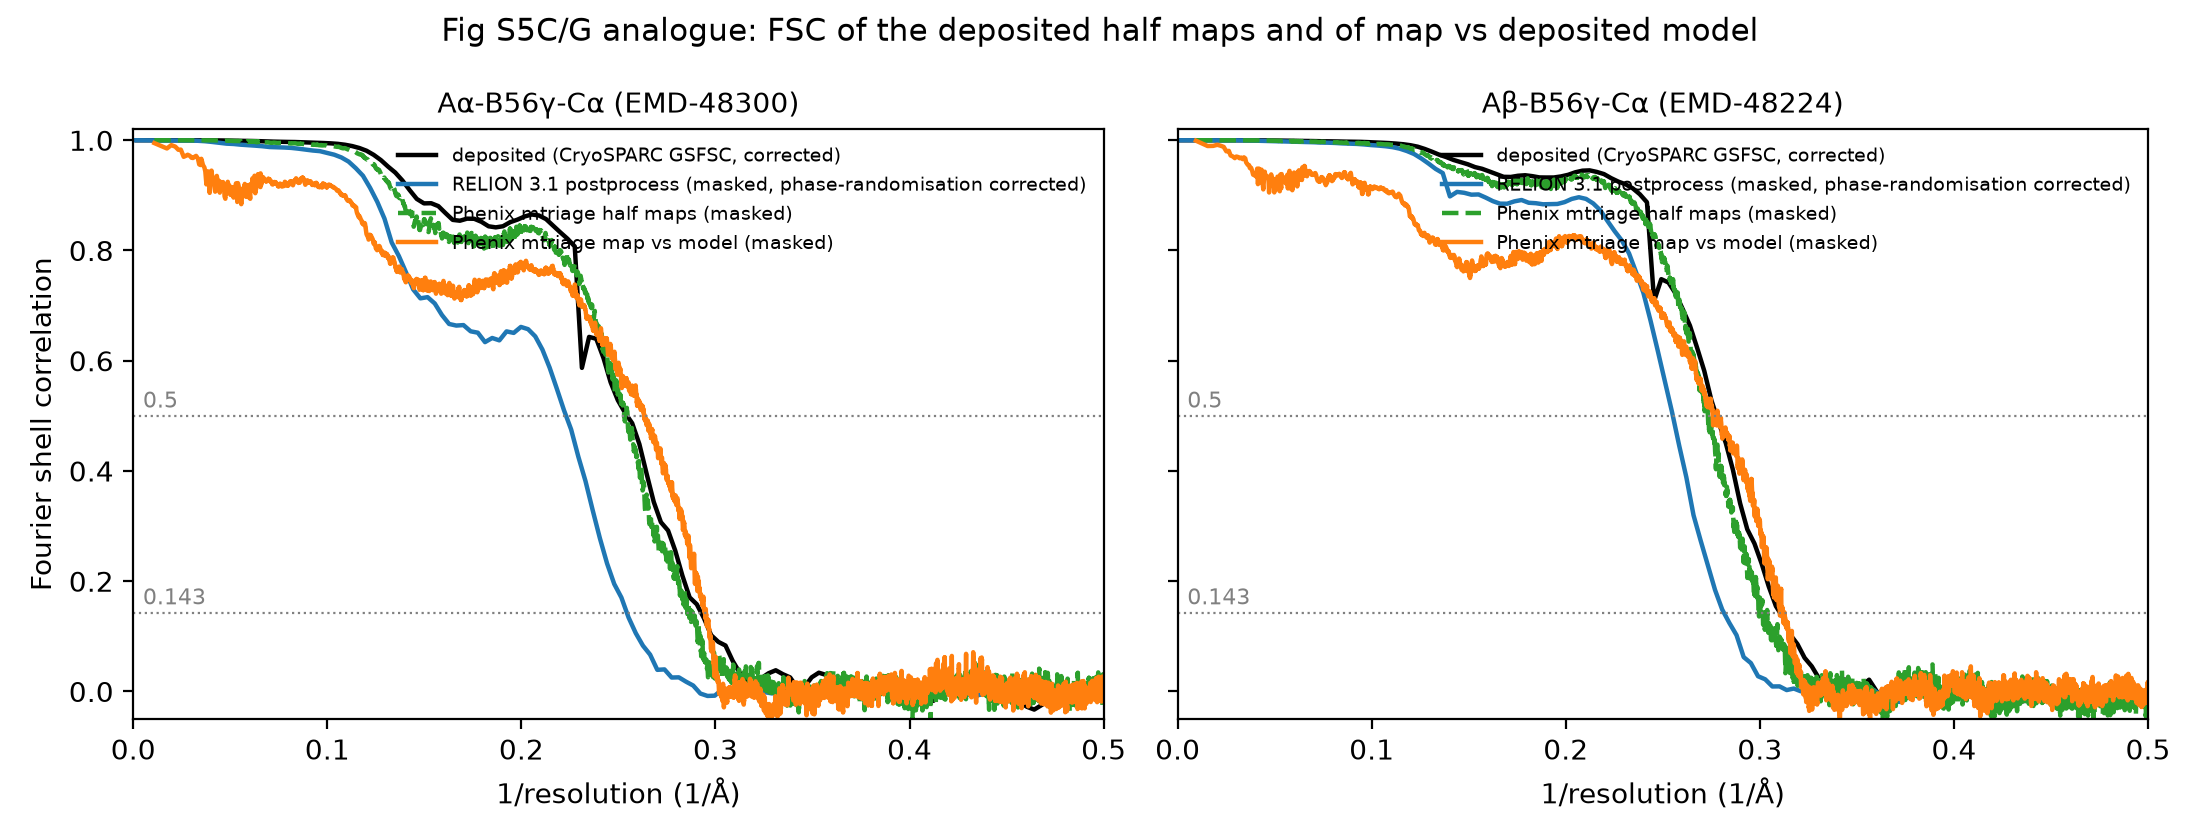
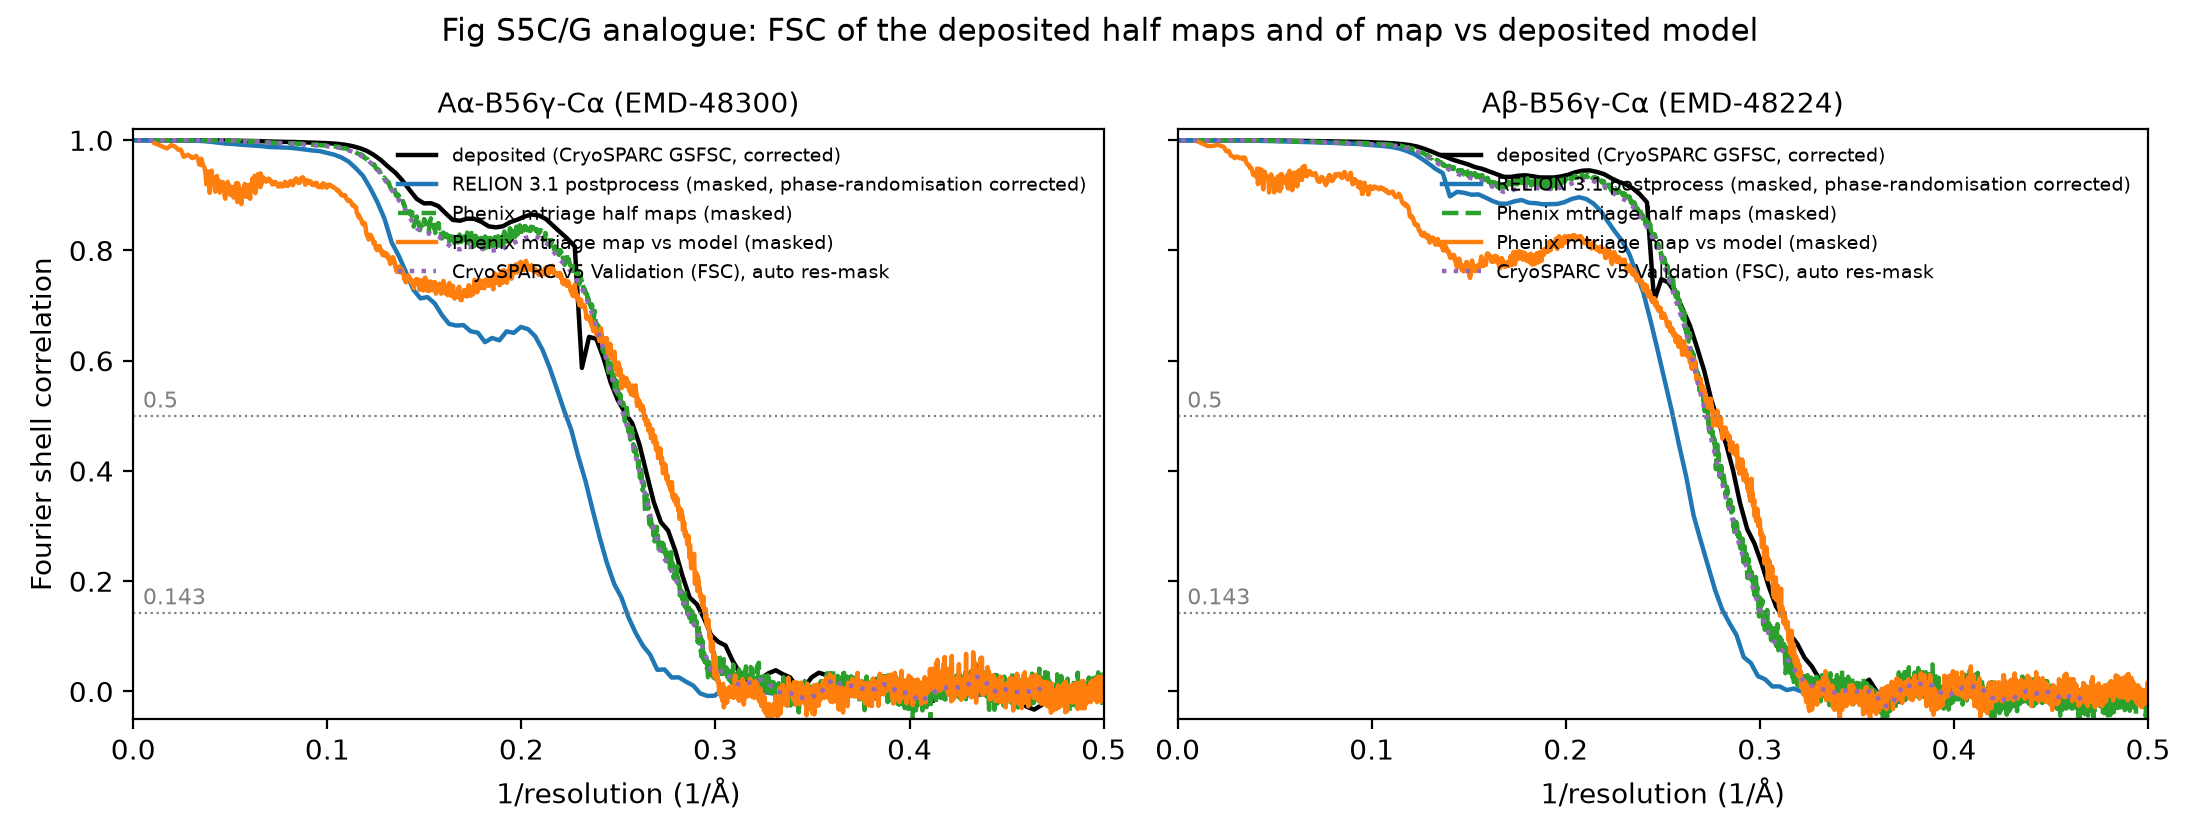
RELION local resolution, Fig 2B density ratios (0.60 Aα vs 0.30 Aβ), S5 local-resolution renders and montages
Claude-Session: https://claude.ai/code/session_01MR4HqkPpqUuLwia8CioFgG

Changed region(s): [[0.68, 0.3095, 0.8964, 0.3405], [0.1855, 0.3095, 0.4018, 0.3405]]

diff --git a/cryoEM/pp2a_day2025_reproduction/scripts/27_em_figures.py b/cryoEM/pp2a_day2025_reproduction/scripts/27_em_figures.py
@@ -122,16 +122,35 @@ def parse_molprobity(out_file):
             "molprobity": g(r"MolProbity score\s*=\s*([\d.]+)")}
 
 
-def locres_stats(mrc_path, mask_path=None):
+def model_mask(mrc_path, iso, dilate_A=3.0):
+    """Voxels within dilate_A of the deposited model's heavy atoms (the paper's range is quoted for the
+    molecule, not for the solvent-inclusive RELION mask)."""
+    import mdtraj as md
     import mrcfile
-    m = mrcfile.open(mrc_path).data.astype(np.float32)
-    vals = m[np.isfinite(m) & (m > 0)]
-    if mask_path and os.path.exists(mask_path):
-        mk = mrcfile.open(mask_path).data > 0.5
-        vals = m[mk & np.isfinite(m) & (m > 0)]
+    from scipy.ndimage import binary_dilation, generate_binary_structure
+    m = mrcfile.open(mrc_path, permissive=True)
+    vs = float(m.voxel_size.x)
+    origin = np.array([float(m.header.origin.x), float(m.header.origin.y), float(m.header.origin.z)])
+    pdb = {"Aa": "9MIP", "Ab": "9MF5"}[iso]
+    t = md.load(os.path.join(DATA, "em", "models", pdb + ".pdb"))
+    xyz = t.xyz[0, t.topology.select("not element H")] * 10.0
+    ijk = np.round((xyz - origin) / vs).astype(int)
+    shape = m.data.shape
+    ok = np.all((ijk >= 0) & (ijk < np.array(shape)[::-1]), axis=1)
+    ijk = ijk[ok]
+    mask = np.zeros(shape, dtype=bool)
+    mask[ijk[:, 2], ijk[:, 1], ijk[:, 0]] = True
+    return binary_dilation(mask, structure=generate_binary_structure(3, 1), iterations=int(round(dilate_A / vs)))
+
+
+def locres_stats(mrc_path, iso):
+    import mrcfile
+    m = mrcfile.open(mrc_path, permissive=True).data.astype(np.float32)
+    mk = model_mask(mrc_path, iso)
+    vals = m[mk & np.isfinite(m) & (m > 0)]
     if len(vals) == 0:
         return None
-    return {"min": float(np.percentile(vals, 0.5)), "max": float(np.percentile(vals, 99.5)), "median": float(np.median(vals)), "values": vals}
+    return {"min": float(np.percentile(vals, 1)), "max": float(np.percentile(vals, 99)), "median": float(np.median(vals)), "values": vals}
 
 
 def main():
@@ -227,19 +246,19 @@ def main():
         mask = os.path.join(DATA, "em", "relion", iso, "mask.mrc")
         parts = []
         if os.path.exists(rel):
-            st = locres_stats(rel, mask)
+            st = locres_stats(rel, iso)
             if st:
                 any_lr = True
                 ax.hist(st["values"], bins=60, range=(2, 8), color=meta["color"], alpha=0.7, label=f"RELION 3.1 locres ({st['min']:.2f}–{st['max']:.2f} Å)")
                 parts.append(f"{st['min']:.2f}-{st['max']:.2f} (RELION)")
-                row(iso, "local resolution range (0.5-99.5 pct in mask)", "RELION 3.1 --locres", f"{st['min']:.2f}-{st['max']:.2f}", "A", PAPER_S1["Map resolution range [A]"][iso], "Table S1 / Fig S5A,E")
+                row(iso, "local resolution range (1-99 pct within 3 A of model)", "RELION 3.1 --locres", f"{st['min']:.2f}-{st['max']:.2f}", "A", PAPER_S1["Map resolution range [A]"][iso], "Table S1 / Fig S5A,E")
         for cs_lr in sorted(glob.glob(os.path.join(DATA, "em", "cryosparc", f"{iso}_locres_*map_locres*.mrc"))):
-            st = locres_stats(cs_lr, mask if os.path.exists(mask) else None)
+            st = locres_stats(cs_lr, iso)
             if st:
                 any_lr = True
                 ax.hist(st["values"], bins=60, range=(2, 8), histtype="step", color="#9467bd", lw=1.5, label=f"CryoSPARC v5 ({st['min']:.2f}–{st['max']:.2f} Å)")
                 parts.append(f"{st['min']:.2f}-{st['max']:.2f} (CryoSPARC)")
-                row(iso, "local resolution range (0.5-99.5 pct in mask)", "CryoSPARC v5 Local Resolution", f"{st['min']:.2f}-{st['max']:.2f}", "A", PAPER_S1["Map resolution range [A]"][iso], "Fig S5A,E")
+                row(iso, "local resolution range (1-99 pct within 3 A of model)", "CryoSPARC v5 Local Resolution", f"{st['min']:.2f}-{st['max']:.2f}", "A", PAPER_S1["Map resolution range [A]"][iso], "Fig S5A,E")
                 break
         table["Map resolution range [A]"][iso] = "; ".join(parts)
         ax.set_title(meta["label"], fontsize=10)

diff --git a/cryoEM/pp2a_day2025_reproduction/scripts/26_chimerax_figures.py b/cryoEM/pp2a_day2025_reproduction/scripts/26_chimerax_figures.py
@@ -72,23 +72,20 @@ def fig2a():
 
 
 def fig2b():
-    # raw_lp6.mrc from RELION (22_relion_postprocess.sh); helix 402-436 of 9MIP chain B as reference in both frames
-    cx = f"open {M}/9MIP.cif id 1\nopen {R}/Aa/raw_lp6.mrc id 2\nopen {M}/9MF5.cif id 3\nopen {R}/Ab/raw_lp6.mrc id 4\nopen {M}/9MIP.cif id 5\n"
-    cx += "matchmaker #5/B:38-403 to #3/B:38-403\n"          # second copy of 9MIP carried into the Abeta frame
-    cx += "matchmaker #3/A to #1/A\n"                        # then Abeta (with its map? no - maps stay; keep frames separate)
-    cx += "hide #1,3,5 models\nhide #1,3,5 atoms\ncartoon hide\n"
-    cx += "show #1/B:402-436 cartoon\nshow #5/B:402-436 cartoon\ncolor #1/B:402-436 blue\ncolor #5/B:402-436 blue\n"
-    cx += "show #1,5 models\n"
-    for vol, mdl, m in (("#2", "#1", ISO["Aa"]), ("#4", "#3", ISO["Ab"])):
-        cx += f"volume {vol} style surface step 1 transparency 0.25\n"
-    cx += "volume #2 sdLevel 3.0\nvolume #4 sdLevel 3.0\n"   # matched sigma level for both raw low-pass maps
-    cx += "color zone #2 near #1 distance 5\ncolor zone #4 near #3 distance 5\n"
-    cx += chain_colors("#1", ISO["Aa"]["acolor"]) + chain_colors("#3", ISO["Ab"]["acolor"])
-    cx += "color zone #2 near #1 distance 5\ncolor zone #4 near #3 distance 5\n"
-    cx += "set bgColor white\nlighting soft\ngraphics silhouettes true\n"
-    cx += f"view #1,2\nsave {FIG}/fig2b_lowpass6_Aa.png width {W} height {H} supersample 2\n"
-    cx += f"view #3,4,5\nsave {FIG}/fig2b_lowpass6_Ab.png width {W} height {H} supersample 2\n"
-    run("fig2b", cx)
+    """6 A low-pass raw maps (RELION relion_image_handler) with the 9MIP B56g C-terminal helix (B402-436) as
+    a blue ribbon; for Abeta a second copy of 9MIP is superposed on the 9MF5 B56g core (38-403) to place the
+    helix in the Abeta frame.  Each isoform is rendered in its own frame (no model is moved relative to its map)."""
+    for iso, m in ISO.items():
+        cx = f"open {M}/{m['pdb']}.cif id 1\nopen {R}/{iso}/raw_lp6.mrc id 2\nopen {M}/9MIP.cif id 3\n"
+        if iso == "Ab":
+            cx += "matchmaker #3/B:38-403 to #1/B:38-403\n"
+        cx += "hide #1,3 atoms\ncartoon hide #1,3\ncartoon #3/B:402-436\ncolor #3/B:402-436 blue\n"
+        cx += chain_colors("#1", m["acolor"])
+        cx += "volume #2 sdLevel 3.0 style surface step 1 transparency 0.35\ncolor zone #2 near #1 distance 5\n"
+        cx += "set bgColor white\nlighting soft\ngraphics silhouettes true\nview orient\nview #2 pad 0.05\n"
+        cx += f"save {FIG}/fig2b_lowpass6_{iso}.png width {W} height {H} supersample 2\n"
+        cx += f"view #3/B:402-436 pad 1.5\nsave {FIG}/fig2b_lowpass6_{iso}_zoom.png width {W} height {H} supersample 2\n"
+        run(f"fig2b_{iso}", cx)
 
 
 def fig3a():

diff --git a/cryoEM/pp2a_day2025_reproduction/scripts/28_montage.py b/cryoEM/pp2a_day2025_reproduction/scripts/28_montage.py
@@ -26,7 +26,8 @@ LAYOUTS = {
                        [["Aα-B56γ-Cα (EMD-48300)", "rotated 90°"], ["Aβ-B56γ-Cα (EMD-48224)", "rotated 90°"]]),
     "fig2b_lowpass6.png": ("Fig 2B analogue: half-map averages low-passed to 6 Å at matched σ; blue ribbon = B56γ C-terminal "
                            "helix (9MIP B402–436), carried into the Aβ frame by superposing the B56γ cores",
-                           [["fig2b_lowpass6_Aa.png", "fig2b_lowpass6_Ab.png"]], [["Aα", "Aβ"]]),
+                           [["fig2b_lowpass6_Aa.png", "fig2b_lowpass6_Ab.png"], ["fig2b_lowpass6_Aa_zoom.png", "fig2b_lowpass6_Ab_zoom.png"]],
+                           [["Aα", "Aβ"], ["Aα, helix region", "Aβ, helix region"]]),
     "fig3c_salt_bridge.png": ("Fig 3C analogue: HEAT3–HEAT5 salt bridge with deposited map mesh; Cα–Cα distance labelled",
                               [["fig3c_salt_bridge_Aa.png", "fig3c_salt_bridge_Ab.png"]], [["Aα R113–E191", "Aβ R125–E203"]]),
     "fig3de_interfaces.png": ("Fig 3D/E analogue: A-subunit residues at the B56γ (top) and Cα (bottom) interfaces",
